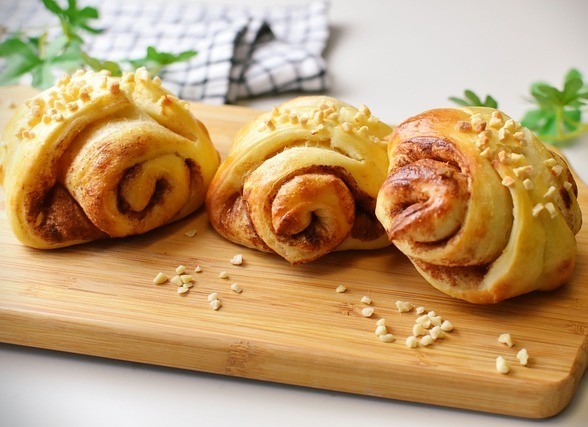
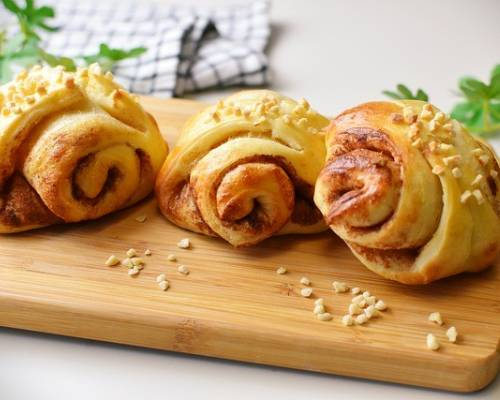
Reducing image sizes

diff --git a/style.css b/style.css
@@ -127,8 +127,6 @@ li a {
 }
 
 .fav_order_content .img{ 
-    width: 600px;
-    height:500px;
     margin-left: 100px; 
     border-radius: 10px;
 }
